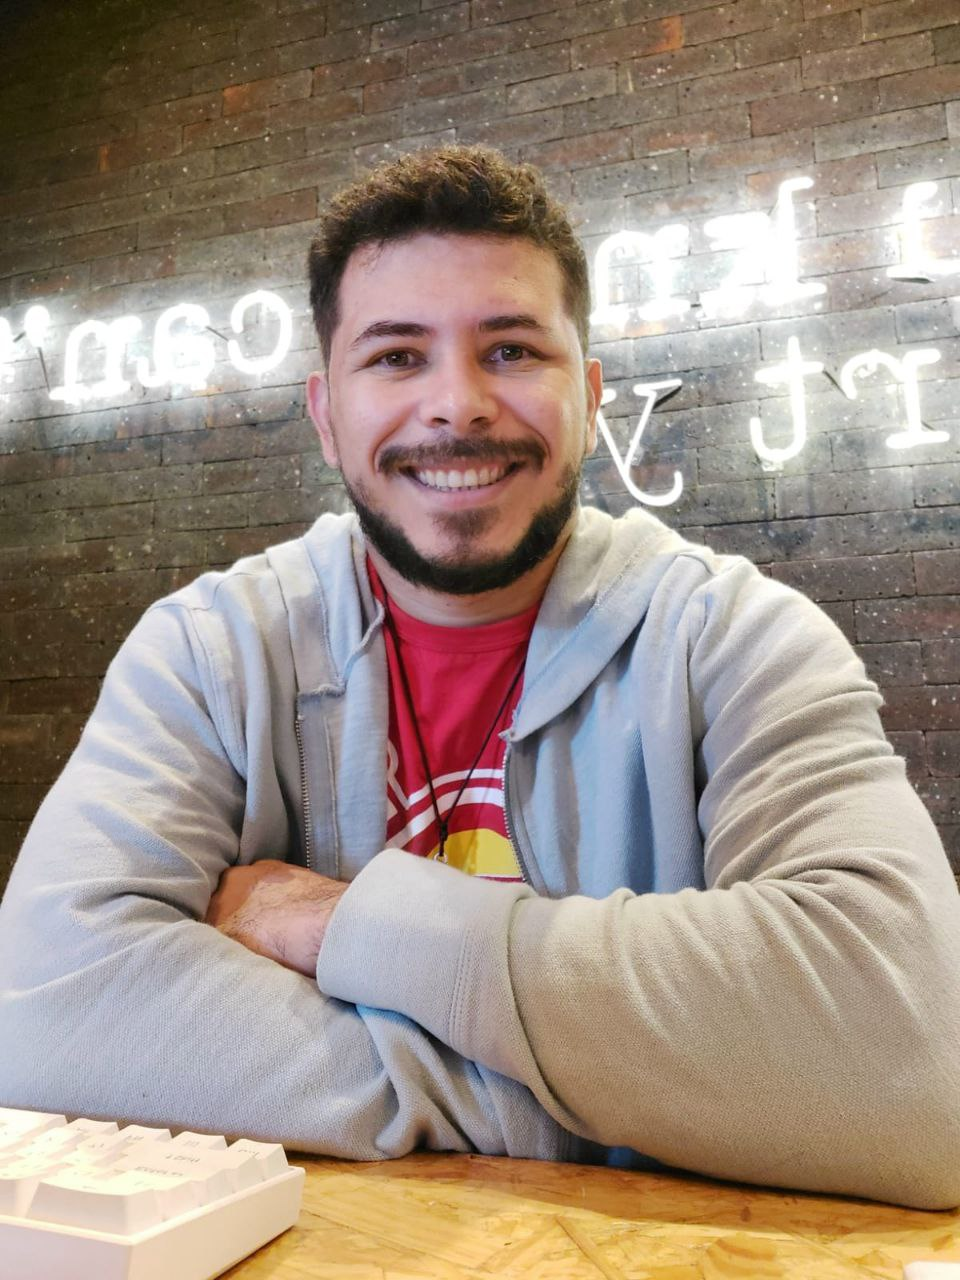
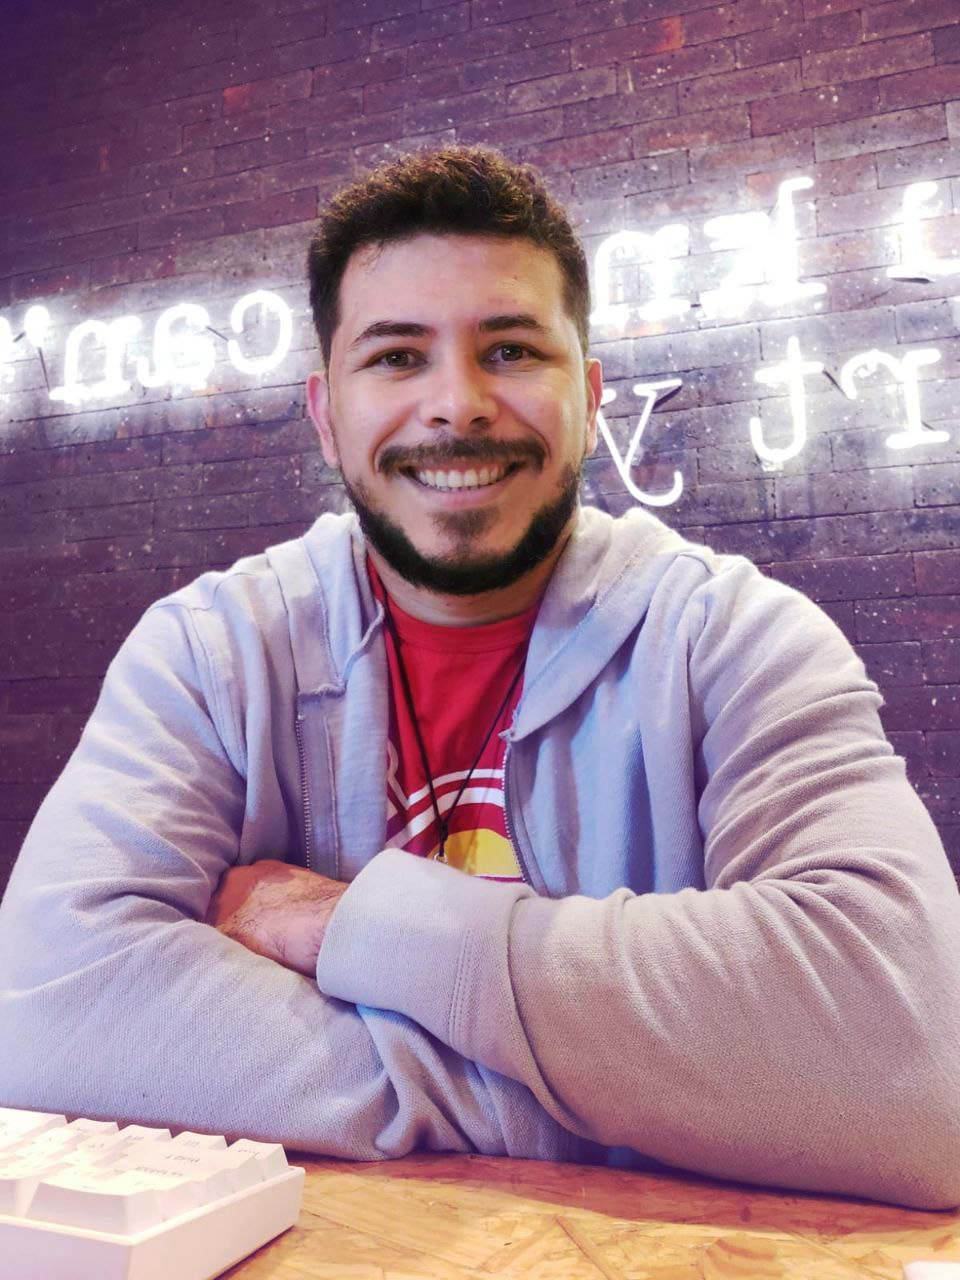
correção foto, e time Work

diff --git a/index.html b/index.html
@@ -399,7 +399,7 @@
                                 </span>
                                 <div class="qualification__calendar">
                                     <i class="uil uil-calendar-alt"></i>
-                                    December, 2022
+                                    December, 2021
                                 </div>
                             </div>
 
@@ -434,19 +434,43 @@
                         <!--===============================QUALIFICATION 3 ===========================-->
                         <div class="qualification__data">
                             <div>
-                                <h3 class="qualification__title">Teacher of Software Development</h3>
+                                <h3 class="qualification__title">Chief Operating Officer - COO</h3>
                                 <span class="qualification__subtitle">
-                                    <a href="https://www.lessoneducation.com/" target="_blank">Lesson - School of Technology and Innovation</a>
+                                    <a href="https://www.imaginakids.com.br/" target="_blank"> ImaginaKIDS</a>
                                 <div class="qualification__calendar">
                                     <i class="uil uil-calendar-alt"></i>
-                                    March, 2019
+                                    June, 2020 
                                 </div>
                             </div>
 
                             <div>
                                 <span class="qualification__rounder"></span>
+                                <span class="qualification__line"></span>
                             </div>
                         </div>
+
+                        <!--===============================QUALIFICATION 2 ===========================-->
+                        <div class="qualification__data">
+                            <div></div>
+                            <div>
+                                <span class="qualification__rounder"></span>
+                                <span class="qualification__line"></span>
+                            </div>
+
+                            <div>
+                                <h3 class="qualification__title">Teacher of Software Development</h3>
+                                <span class="qualification__subtitle">
+                                    <a href="https://www.lessoneducation.com/"
+                                        target="_blank">Lesson - School of Technology and Innovation</a>
+                                </span>
+
+                                <div class="qualification__calendar">
+                                    <i class="uil uil-calendar-alt"></i>
+                                    March, 2019
+                                </div>
+                            </div>
+                        </div>
+                        
                     </div>
                 </div>
             </div>
@@ -613,18 +637,9 @@
         <div class="footer__bg">
             <div class="footer__container container grid">
                 <div>
-                    <h1 class="footer__title">Zigu</h1>
+                    <h1 class="footer__subtitle">Jhonny Robert</h1>
                     <span class="footer__subtitle">Quality Assurance Test Engineer</span>
                 </div>
-
-                <ul class="footer__links">
-                    <li>
-                        <a href="#services" class="footer__link">Services</a>
-                    </li>
-                    <li>
-                        <a href="#contact" class="footer__link">Contact Me</a>
-                    </li>
-                </ul>
 
                 <div class="footer__socials">
 
@@ -637,6 +652,11 @@
                         class="footer__social" class="footer__social">
                         <i class="uil uil-linkedin-alt"></i>
                     </a>
+
+                    <a href="https://github.com/jhonnyrobert" target="_blank" class="footer__social">
+                        <i class="uil uil-github-alt"></i>
+                    </a>
+
                 </div>
             </div>
 
